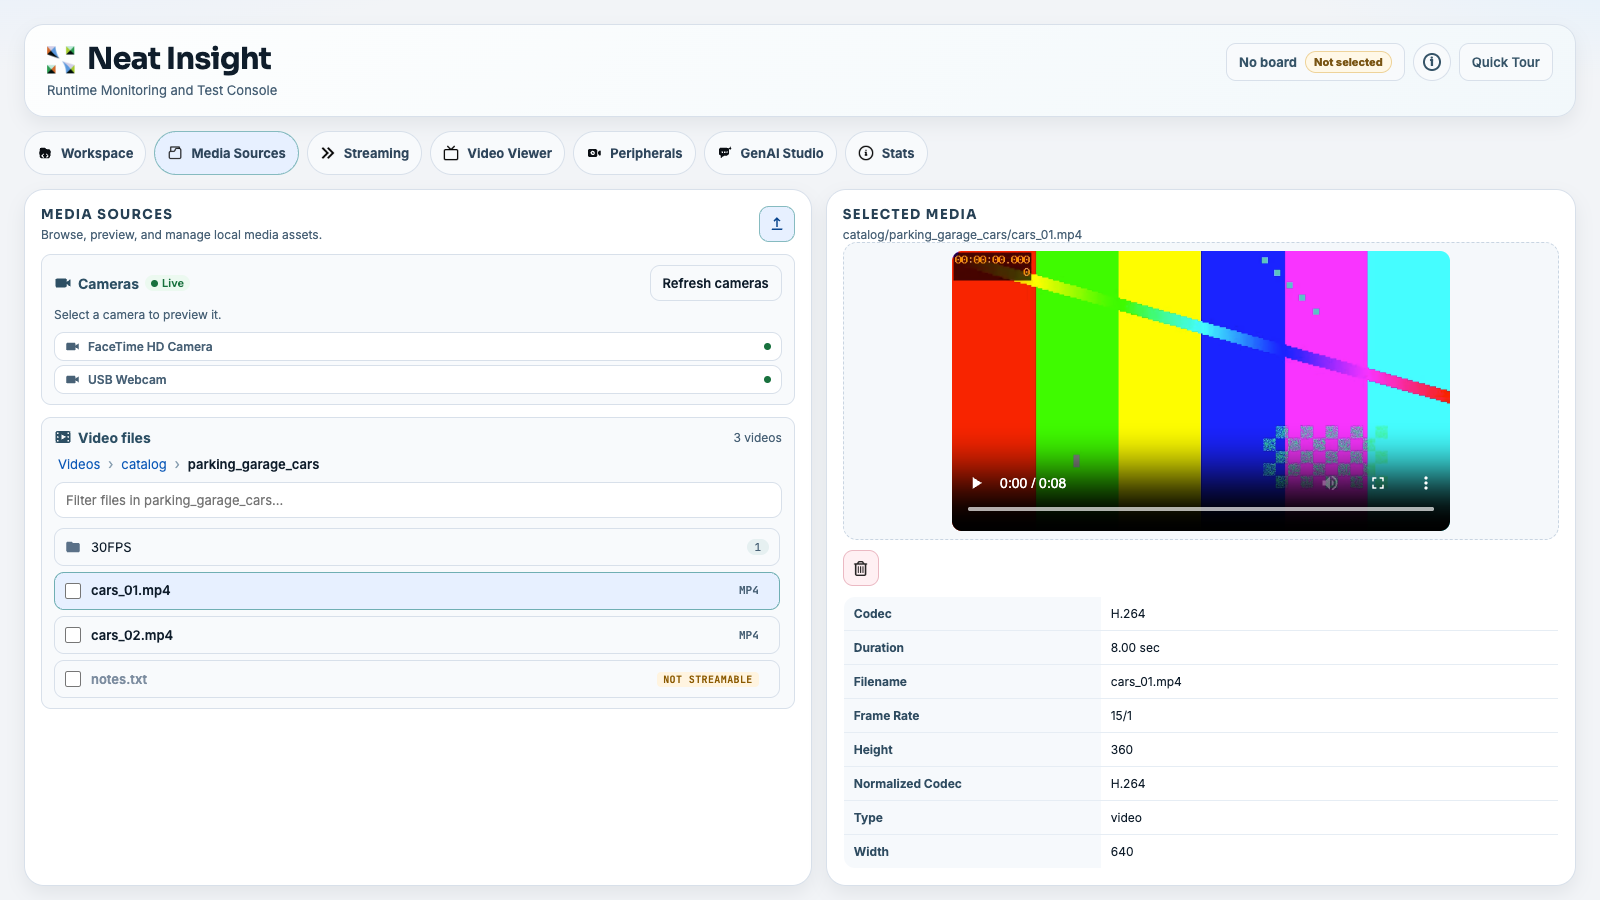
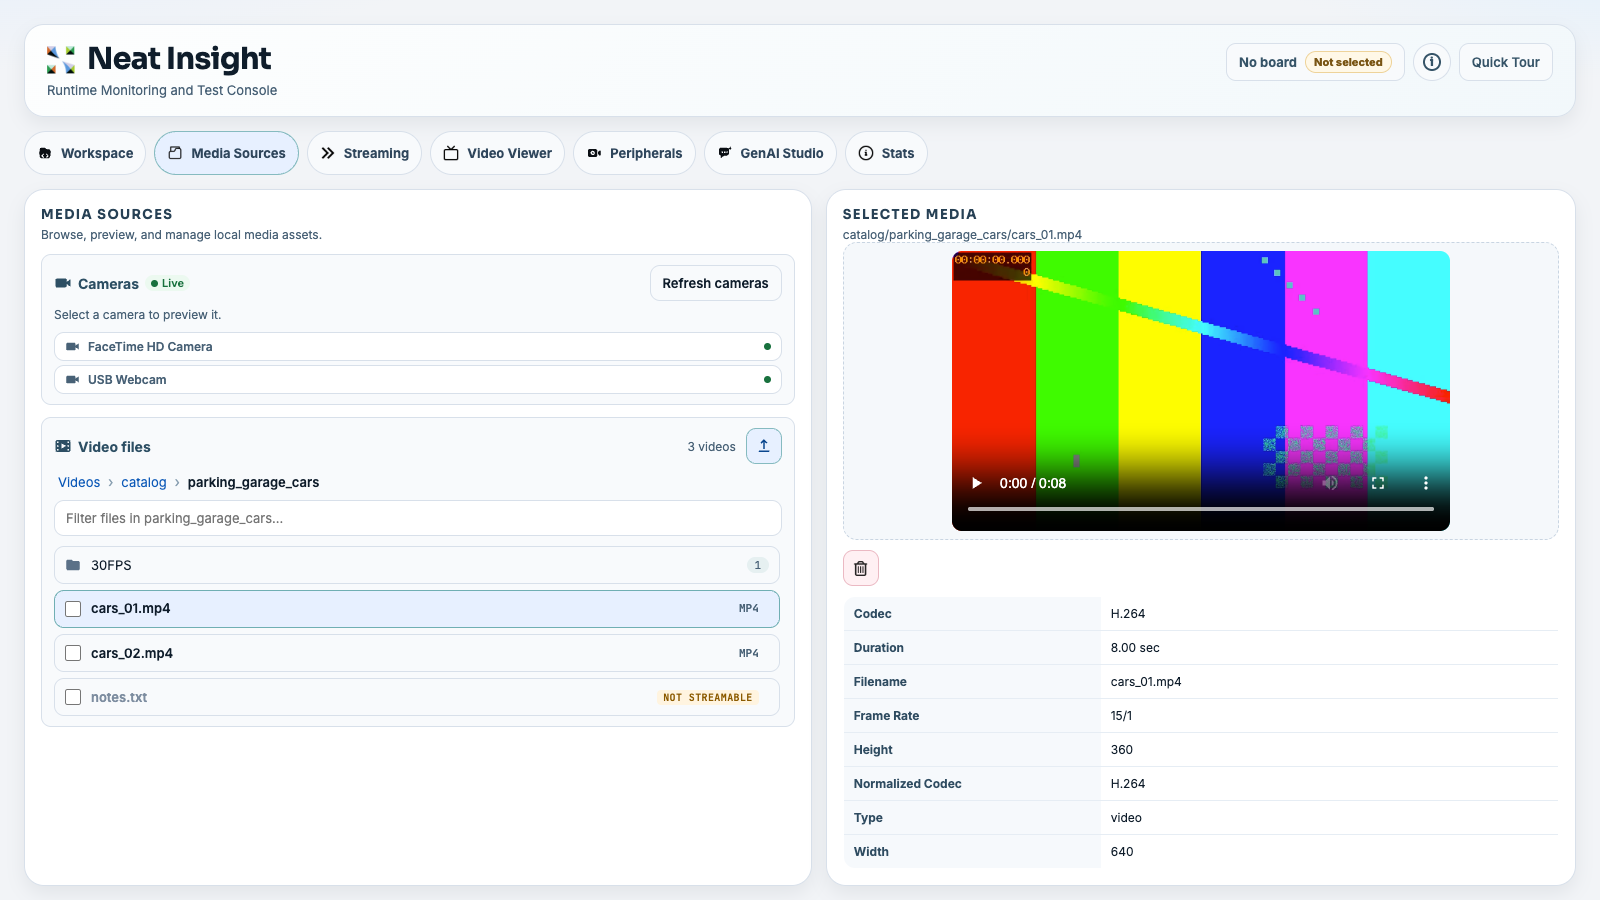
Media Sources: move Import Media into the Video files card
Files are the only thing it imports, so it belongs with them rather than
at the top of the panel, above the cameras.

Changed region(s): [[0.0312, 0.4667, 0.5, 0.8089], [0.4375, 0.4667, 0.5, 0.4978]]

diff --git a/frontend/src/App.jsx b/frontend/src/App.jsx
@@ -2773,20 +2773,6 @@ export default function App() {
                   <h2>Media Sources</h2>
                   <p className="section-note">Browse, preview, and manage local media assets.</p>
                 </div>
-                <button
-                  type="button"
-                  className={uploadBusy ? 'upload-icon-btn busy' : 'upload-icon-btn'}
-                  title="Import Media"
-                  aria-label="Import Media"
-                  aria-busy={uploadBusy ? 'true' : 'false'}
-                  disabled={uploadBusy}
-                  onClick={() => openImportDialog('local')}
-                >
-                  <svg viewBox="0 0 24 24" aria-hidden="true">
-                    <path d="M12 3l4.5 4.5-1.4 1.4-2.1-2.1V16h-2V6.8L8.9 8.9 7.5 7.5 12 3zM5 18h14v2H5v-2z" />
-                  </svg>
-                  <span className="sr-only">Import Media</span>
-                </button>
               </div>
               <div className="media-card" data-testid="cameras-card">
                 <div className="media-card-head">
@@ -2831,6 +2817,22 @@ export default function App() {
               <div className="media-card" data-testid="video-files-card">
               <FolderBrowser
                 heading={<h3 className="media-card-title"><VideoFileIcon />Video files</h3>}
+                headingAction={(
+                  <button
+                    type="button"
+                    className={uploadBusy ? 'upload-icon-btn busy' : 'upload-icon-btn'}
+                    title="Import Media"
+                    aria-label="Import Media"
+                    aria-busy={uploadBusy ? 'true' : 'false'}
+                    disabled={uploadBusy}
+                    onClick={() => openImportDialog('local')}
+                  >
+                    <svg viewBox="0 0 24 24" aria-hidden="true">
+                      <path d="M12 3l4.5 4.5-1.4 1.4-2.1-2.1V16h-2V6.8L8.9 8.9 7.5 7.5 12 3zM5 18h14v2H5v-2z" />
+                    </svg>
+                    <span className="sr-only">Import Media</span>
+                  </button>
+                )}
                 tree={mediaTree}
                 folder={mediaFolder}
                 onNavigate={navigateMediaFolder}

diff --git a/frontend/src/media/FolderBrowser.jsx b/frontend/src/media/FolderBrowser.jsx
@@ -24,13 +24,14 @@ function plural(count, word, pluralForm = `${word}s`) {
 //   renderFileLead  optional (filePath) => node placed before the file name (the delete checkbox)
 //   fileRowClass    optional (filePath) => extra class for the row ('selected' for checked rows)
 //   heading         optional node for a header row, which then holds the count too
+//   headingAction   optional node at the end of that header row
 //   idPrefix        test-id prefix so the two instances can be told apart
 //   showUnsupported list files Insight cannot stream, greyed and tagged, so they can still be
 //                   previewed or deleted; off by default, because the assign dialog must not
 //                   offer them. Without them, a folder with nothing streamable inside is greyed.
 export default function FolderBrowser({
   tree, folder, onNavigate, filter, onFilterChange, selectedPath, onSelect,
-  renderFileLead, fileRowClass, heading, idPrefix = 'media', showUnsupported = false,
+  renderFileLead, fileRowClass, heading, headingAction, idPrefix = 'media', showUnsupported = false,
 }) {
   const crumbs = breadcrumbs(folder)
   const query = (filter || '').trim()
@@ -73,7 +74,7 @@ export default function FolderBrowser({
 
   return (
     <div className="folder-browser" data-testid={`${idPrefix}-browser`} data-folder={folder}>
-      {heading && <div className="media-card-head">{heading}{count}</div>}
+      {heading && <div className="media-card-head">{heading}<div className="media-card-head-end">{count}{headingAction}</div></div>}
       <div className="folder-nav">
         <nav className="breadcrumb" aria-label="Current folder" data-testid={`${idPrefix}-breadcrumb`}>
           {crumbs.map((crumb, index) => {

diff --git a/frontend/e2e/camera-preview.spec.js b/frontend/e2e/camera-preview.spec.js
@@ -418,6 +418,7 @@ test('cameras and video files sit in separate labelled cards, and the library st
 
   await expect(cameras.getByRole('heading', { name: 'Cameras' })).toContainText('Live')
   await expect(files.getByRole('heading', { name: 'Video files' })).toBeVisible()
+  await expect(files.getByRole('button', { name: 'Import Media' })).toBeVisible()
 
   await enableCameras(ui)
   await expect(cameras.getByTestId('camera-row')).toHaveCount(2)

diff --git a/frontend/src/styles.css b/frontend/src/styles.css
@@ -577,6 +577,12 @@ select:focus-visible,
   margin: 0;
 }
 
+.media-card-head-end {
+  display: flex;
+  align-items: center;
+  gap: 10px;
+}
+
 .media-card-title {
   display: flex;
   align-items: center;
